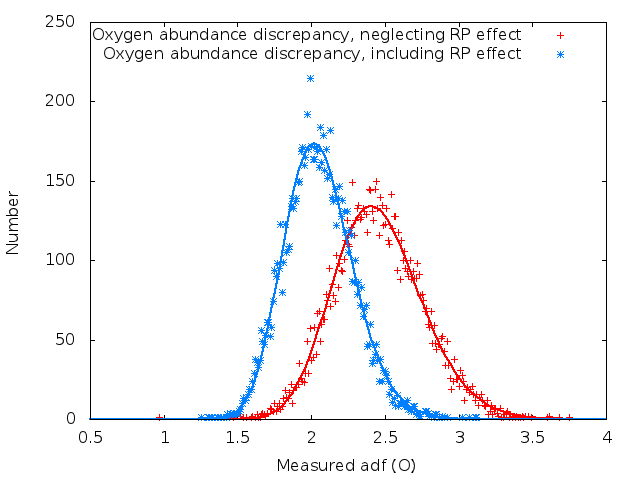
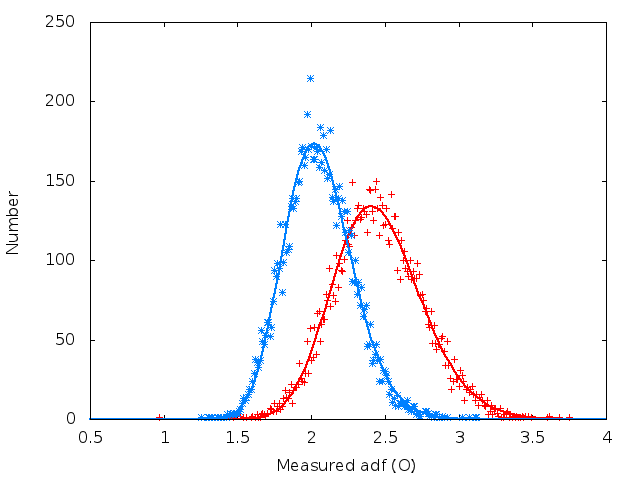
Updated RP effect figure, added some more text to the paper

Changed region(s): [[0.1562, 0.0625, 0.8125, 0.125]]

diff --git a/paper/NEAT_paper_I.tex b/paper/NEAT_paper_I.tex
@@ -79,7 +79,9 @@ Abundance determinations from photoionised nebulae play crucial roles in a varie
 
 Such studies have a very long history (eg gratuitously ancient reference), but some major questions remain unanswered.  One long standing issue is the sometimes sizable discrepancy between abundances derived from collisionally excited lines (CELs) and those derived from recombination lines (RLs) - see for example recent papers by (a Liu, a Tsamis, a Wesson...).  One difficulty in understanding the significance of abundance data is that it is not trivial to realistically estimate the uncertainty on the derived quantities.  The final uncertainty will be due to both statistical uncertainty (ultimately deriving from the inherent uncertainty on the original line flux measurements) and systematic uncertainty (for example, the choice of reddening law or atomic data set).
 
-In this paper we present a new code for calculating chemical abundances in photoionised nebulae, which can also robustly estimate statistical uncertainties using a Monte Carlo approach.  This method is inherently superior to analytic methods of uncertainty propagation.  We use our code to reanalyse several published line lists for which uncertainties are available, and we show that analytic methods can dramatically underestimate the true uncertainties on derived quantities.  For low signal to noise data, the true uncertainty distributions can be strongly non-Gaussian.
+In this paper we present a new code for calculating chemical abundances in photoionised nebulae, which can also robustly estimate statistical uncertainties using a Monte Carlo approach.  This method is inherently superior to analytic methods of uncertainty propagation. and can easily account for the effect of non-Gaussian flux uncertainties, such as those found by Rola \& Pelat (1994) in the case of flux measurements with low signal-to-noise ratios.  We use our code to reanalyse several published line lists for which uncertainties are available, and we show that analytic methods can dramatically underestimate the true uncertainties on derived quantities.
+
+For low signal to noise data, the true uncertainty distributions can be strongly non-Gaussian.  Typically uncertainties are better characterised by log-normal distributions than by normal distributions, with most quantities being potentially more subject to upward bias than to downward bias.
 
 The words ``uncertainty" and ``error" are often used synonymously.  However, in this article we maintain the distinction in meaning between the terms: ``uncertainty" refers to the limiting accuracy of the knowledge of a quantity, while ``error" refers to an actual mistake.
 
@@ -87,7 +89,7 @@ The words ``uncertainty" and ``error" are often used synonymously.  However, in 
 
 \subsection{Input}
 
-The new code, NEAT, largely builds upon previous codes, most importantly the {\sc equib} code (ref) for solving the equations of statistical equilibrium in multi-level atoms.  All the source code, documentation, atomic data and example line lists are freely available at \texttt{https://github.com/rwesson/NEAT}.
+The new code, NEAT (Nebular Empirical Analysis Tool), largely builds upon previous codes, most importantly the {\sc equib} code (ref) for solving the equations of statistical equilibrium in multi-level atoms.  All the source code, documentation, atomic data and example line lists are freely available at \texttt{https://github.com/rwesson/NEAT}.
 
 The code requires as input a plain text list of rest wavelengths, line fluxes, and uncertainties.  The user can then select the number of iterations of the code to run.  If the number of iterations is one, the code performs a standard empirical analysis on the line list, as described below, and does not calculate any uncertainties.  If the number of iterations is more than one, then the code first randomises the line list.  For each line, the code takes a random number from a Gaussian distribution with mean zero and standard deviation unity, multiplies this number by the line flux uncertainty, and adds it to the measured flux.  The standard analysis is then carried out on the randomised line list.
 
@@ -112,16 +114,16 @@ For lines with F/$\sigma < $6, we randomise the line fluxes using the following 
 \end{equation}
 
 \begin{equation}
-\sigma = \frac{0.351}{snr^2} + \frac{3.37}{snr} - 0.473
+\sigma = \frac{-1.11329}{snr^3} + \frac{1.8542}{snr^2} - \frac{0.288222}{snr} + 0.18018
 \end{equation}
 
 Then, the line flux is found using the following equation:
 
 \begin{equation}
-F(random) = \frac{F(measured)}{e^(RAND\times\sigma + \mu)}
+F({\rm random}) = \frac{F({\rm measured})}{e^{({\rm RAND}\times\sigma + \mu)}}
 \end{equation}
 
-where RAND is a random number from a gaussian distribution as before.  The result of this procedure is that weaker lines are drawn from distributions that peak below the observed value, with the effect increasing as SNR decreases.  The statistical behaviour is as described by \citet{1994A&A...287..676R}.
+where RAND is a random number from a gaussian distribution as before.  The result of this procedure is that weaker lines are drawn from log-normal distributions that peak below the observed value, with the effect increasing as SNR decreases.  The statistical behaviour is as described by \citet{1994A&A...287..676R}.
 
 If the quoted uncertainty is larger than the acual line flux, the code assumes that the quote flux represents a 5$\sigma$ upper limit, and thus draws the randomized line flux from a folded gaussian distribution, with $\mu$=0 and $\sigma$=0.2$\times$F(measured).
 
@@ -130,7 +132,7 @@ Figure~\ref{distributions} shows the various possibilities that arise depending 
 \begin{figure}
 \label{distributions}
 \includegraphics[width=0.47\textwidth]{figures/distributions_2.png}
-\caption{The behaviour of NEAT's line flux randomization as a function of SNR.  At high SNR (i.e. $>$6), normal distributions apply.  At lower SNR, the effect described by \citet{1994A&A...287..676R} results in log-normal distributions which are skewed towards lower values.  If SNR$\leq$1 then the code assumes that the quoted flux is a 5$\sigma$ upper limit}
+\caption{The behaviour of NEAT's line flux randomization as a function of SNR.  At high SNR (i.e. $>$6), normal distributions apply.  At lower SNR, the effect described by \citet{1994A&A...287..676R} results in log-normal distributions which are skewed towards lower values than the measured intensity.  If SNR$\leq$1 then the code assumes that the quoted flux is a 5$\sigma$ upper limit}
 \end{figure}
 
 \subsection{Interstellar extinction}
@@ -140,6 +142,17 @@ The first step of any abundance analysis is a correction for interstellar extinc
 \subsection{Temperatures and densities}
 
 Temperatures and densities are calculated using traditional collisionally excited line diagnostics.  For the purposes of subsequent abundance calculations, the nebula is divided into three ``zones", of low, medium and high excitation.  In each zone, temperatures and densities are calculated iteratively and weighted according to the reliability of each diagnostic.  Table~\ref{zonestable} shows the diagnostics used and the weighting given in each zone.
+
+The scheme to calculate the densities is iterative, and proceeds as follows:
+
+\begin{enumerate}
+\item A temperature of 10,000K is initially assumed, and the density is then calculated from the line ratios relevant to the zone.
+\item The temperature is then calculated from the temperature diagnostic line ratios, using the derived density.
+\item The density is recalculated using the appropriately weighted average of the temperature diagnostics
+\item The temperature is recalculated using this density.
+\end{enumerate}
+
+This iterative procedure is carried out successively for low, medium and high ionisation zones, and in each case if no diagnostics are available, the temperature and/or density will be taken to be those derived for the previous zone.
 
 \begin{table}
 \begin{tabular}{ccc}
@@ -159,28 +172,28 @@ Diagnostic & Lines & Weight \\
 \multicolumn{3}{c}{Medium ionisation zone}\\
 \hline
 Diagnostic & Lines & Weight \\
-~[Cl~{\sc iii}] density & & 1 \\
-~[Ar~{\sc iv}] density & & 1 \\
-~[C~{\sc iii}] density & & 1 \\
-~[O~{\sc iii}] density & & 0 \\
-~[Ar~{\sc iii}] density & & 0 \\
-~[S~{\sc iii}] density & & 0 \\
-~[Ne~{\sc iii}] density & & 0 \\
+~[Cl~{\sc iii}] density & $\lambda$5517/$\lambda$5537 & 1 \\
+~[Ar~{\sc iv}] density & $\lambda$4711/$\lambda$4740 & 1 \\
+~[C~{\sc iii}] density & $\lambda$1907/$\lambda$1909 & 1 \\
+~[O~{\sc iii}] density & $\lambda$52$\mu$m/$\lambda$88$\mu$m & 0 \\
+~[Ar~{\sc iii}] density & $\lambda$9$\mu$m/$\lambda$21.8$\mu$m & 0 \\
+~[S~{\sc iii}] density & $\lambda$18.7$\mu$m/$\lambda$33.8$\mu$m & 0 \\
+~[Ne~{\sc iii}] density & $\lambda$15.5$\mu$m/$\lambda$36.0$\mu$m & 0 \\
 ~\\
-~[O~{\sc iii}] temperature & optical & 4\\
-~[Ar~{\sc iii}] temperature & & 2\\
-~[Ne~{\sc iii}] temperature & optical & 2\\
-~[S~{\sc iii}] temperature & & 1\\
-~[Ne~{\sc iii}] temperature & IR & 0\\
-~[O~{\sc iii}] temperature & IR & 0\\
+~[O~{\sc iii}] temperature & $\frac{\lambda 4959 + \lambda 5007}{\lambda 4363}$ & 4\\
+~[Ar~{\sc iii}] temperature &7135 + 7751/5192 & 2\\
+~[Ne~{\sc iii}] temperature & 3868 + 3967/3342 & 2\\
+~[S~{\sc iii}] temperature & 9069 + 9531/6312 & 1\\
+~[Ne~{\sc iii}] temperature & 3868 + 3967/15.5$\mu$m & 0\\
+~[O~{\sc iii}] temperature &4959 + 5007/52 & 0\\
 \hline
 \multicolumn{3}{c}{High ionisation zone}\\
 \hline
 Diagnostic & Lines & Weight \\
-~[Ne~{\sc iv}] density & & 1 \\
+~[Ne~{\sc iv}] density & 2423/2425 & 1 \\
 ~\\
-~[Ar~{\sc v}] temperature & & 1 \\
-~[Ne~{\sc v}] temperature & & 1 \\
+~[Ar~{\sc v}] temperature & 6435 + 7005/4625& 1 \\
+~[Ne~{\sc v}] temperature & 3426 + 3345/2975 & 1 \\
 \end{tabular}
 \label{zonestable}
 \caption{Diagnostics used in the calculation of physical conditions.}
@@ -194,9 +207,13 @@ Recombination lines are also used to derive ionic abundances.  In deep spectra, 
 
 \subsection{Total elemental abundances}
 
-Total elemental abundances are estimated using Ionisation Correction Factors.  The code includes the ICF scheme of \citet{1994MNRAS.271..257K}.
+Generally, not all ionisation stages of an ion that are actually present in a nebula will be detected, due to limited wavelength coverage and detection limits.  Total elemental abundances are thus estimated using ionisation correction schemes, which are derived from photoionisation models, or similarities in ionisation potentials, or a combination of the two.
+
+The code currently includes the ICF scheme of \citet{1994MNRAS.271..257K}.  We plan to incorporate further ICFs, and in a forthcoming paper we will compare the magnitude of the systematic uncertainties arising from the choice of ICF with the statistical uncertainties.
 
 \section{Statistical uncertainties}
+
+The most powerful aspect of NEAT is its ability to robustly quantify the statistical uncertainties on the derived quantities.  In this section we discuss commonly applied analytical techniques of uncertainty propagation, and show that they rely on assumptions which are often violated in typical astronomical observations.  We describe the Monte Carlo approach used in NEAT and show that it is superior to analytical techniques.
 
 Uncertainties in observed quantities can be propagated into the uncertainty on derived parameters in a number of different ways, the two most common of which are the traditional analytical technique based on systems of partial derivatives and simplifying assumptions that allow one to apply Taylor expansions, and the `Monte Carlo' method which is a brute-force iterative method that exploits the wealth of computational power now readily available by building on knowledge of the uncertainty in the original observations.
 
@@ -226,30 +243,27 @@ and it thus follows that
 
 This expression can be generalised to any number of variables, and gives rise to the usual quadrature formulae for many simple functions of $x$.  We highlight three key aspects of this approach:
 
-\begin{itemize}
+\begin{enumerate}
   \item Given the number of formulae through which the original line flux data must be put before an abundance can be determined, and the wide variety of functions applied, the equations necessary to propagate uncertainties in this way can become extremely complex;
   \item the approach implicitly assumes that all the input and output uncertainties at each step are normally distributed;
   \item the Taylor expansion requires that the uncertainties be small relative to the quantities.
-\end{itemize}
+\end{enumerate}
 
 The first point is a matter of convenience but none the less one which discourages many authors from even attempting to propagate uncertainties all the way into the final quantities.  The second and third points are clearly violated in many or most real astrophysical observations, by virtue of which the uncertainties estimated using analytical techniques will be unreliable.
 
-The Monte Carlo method, on the other hand, exploits the fact that an observation of a quantity $x$ is drawn from a distribution $X$, with mean $x$ and variance $\sigma_x$ . If one knows (or can make sensible assumptions about) the shape of this distribution, a random-number generator can be used to repeatedly draw values from X, creating a random sample from it. Using the above example of $F = f (x)$, if one wanted to examine the uncertainty in F , the operation f(x) could be performed upon every value in the aforementioned sample to produce a sample of the distribution from which F is drawn, which can then be parameterised to estimate the type, mean and standard deviation of this distribution. This process can be repeated ad infinitum for any number or combination of functions of F , x, or any other variable derived in the same way to propagate the uncertainties on the quantities, irrespective of the size of the uncertainties and any statistical interdependence of the variables.  This approach thus has the following advantages over the analytical approach:
+The Monte Carlo method, on the other hand, exploits the fact that an observation of a quantity $x$ is drawn from a distribution $X$, with mean $x$ and variance $\sigma_x$ . If one knows (or can make sensible assumptions about) the shape of this distribution, a random-number generator can be used to repeatedly draw values from X, creating a random sample from it. Using the above example of $F = f (x)$, if one wanted to examine the uncertainty in F, the operation f(x) could be performed upon every value in the aforementioned sample to produce a sample of the distribution from which F is drawn, which can then be parameterised to estimate the type, mean and standard deviation of this distribution. This process can be repeated ad infinitum for any number or combination of functions of F, x, or any other variable derived in the same way to propagate the uncertainties on the quantities, irrespective of the size of the uncertainties and any statistical interdependence of the variables.  This approach thus has the following advantages over the analytical approach:
 
-\begin{itemize}
+\begin{enumerate}
   \item It is inherently very simple;
   \item it requires no assumption about the particular distribution of uncertainties at any stage;
   \item it does not require relative uncertainties to be small
-\end{itemize}
+\end{enumerate}
 
 The Monte Carlo approach is thus inherently robust when applied to real astrophysical data, in a way that the analytical approach is not.  The only limitation is then the time taken to run the calculation enough times to sample well the statistics of the output distributions.
 
-To demonstrate how traditional methods of uncertainty propagation do not properly reflect the true uncertainties on the derived chemical abundances, we present here a reanalysis using NEAT of observations of the Orion Nebula originally presented by Esteban et al. (2004).  These authors presented input line flux uncertainties as well as output abundance uncertainties, having propagated them analytically, making their dataset ideal for the purposes of comparing analytic and Monte Carlo uncertainty propagation.
+To demonstrate how traditional methods of uncertainty propagation do not properly reflect the true uncertainties on the derived chemical abundances, we present here a reanalysis using NEAT of observations of the nebula surrounding the Large Magellanic Cloud Wolf-Rayet star WR18.  These observations were presented by Stock et al. (2011) and analysed using an earlier version of NEAT.  In this section we calculate the abundances and uncertainties using both the current version of NEAT, which accounts for non-Gaussian line flux uncertainties, and using analytical techniques.
 
-Element		Esteban			Us
-Helium		10.991 +- 0.003		10.98+0.017-0.019
-Carbon		8.42 +- 0.02		8.43 +- 0.02
-Oxygen
+We chose this object as it is distant and faint, and the line measurements are thus necessarily measured with relatively low signal to noise ratios, and the effects of the assumptions in the analytical method are most apparent.  The results of this analysis are presented in Table~\ref{WR18_uncertainties_table}.
 
 %wo objects, along with the results from a third object which was originally analysed with NEAT (WR 18).  We chose objects having very deep, moderately deep and shallow spectra.  \citet{2011MNRAS.415..181F} presented a spectrum of NGC 7009 containing approximately 1300 identified emission lines.  NGC\,6543 \citep{2004MNRAS.351.1026W} has a spectrum with about 200 emission lines measured, and WR18 \citep{2011arXiv1108.3800S} has 36 lines detected.
 
@@ -274,7 +288,7 @@ It is clear from the figure that if the RP effect is neglected, a significantly 
 \begin{figure}
 \label{RPeffect}
 \includegraphics[width=0.47\textwidth]{figures/RPeffect.png}
-\caption{The abundance discrepancy factor for oxygen in NGC\,6543, determined both neglecting and including the RP effect}
+\caption{The abundance discrepancy factor for oxygen in NGC\,6543, determined both neglecting (red points) and including (blue points) the RP effect.  The solid lines are gaussian fits to the observed distributions of results}
 \end{figure}
 
 In other shallower spectra, it may often be the case that the auroral lines [N~{\sc ii}] $\lambda$5754 and [O~{\sc iii}] $\lambda$4363 are measured with low enough SNR that they become subject to the RP effect.  In this case, the derived temperatures would be overestimated, and collisionally excited line abundances underestimated.  Example?
@@ -282,7 +296,7 @@ In other shallower spectra, it may often be the case that the auroral lines [N~{
 \subsection{Interstellar extinction}
 \label{extinction}
 
-We investigate the effect of the uncertainty in R, the ratio of total to selective extinction given by
+NEAT allows a robust propagation of uncertainties from line flux measurements into derived quantities.  It is also possible to investigate the effect of uncertainties arising at different stages of the process.  In this section, we consider the effect of the uncertainty in R, the ratio of total to selective extinction given by
 
 \begin{equation}
 R = \frac{A(V)}{E(B-V)}
